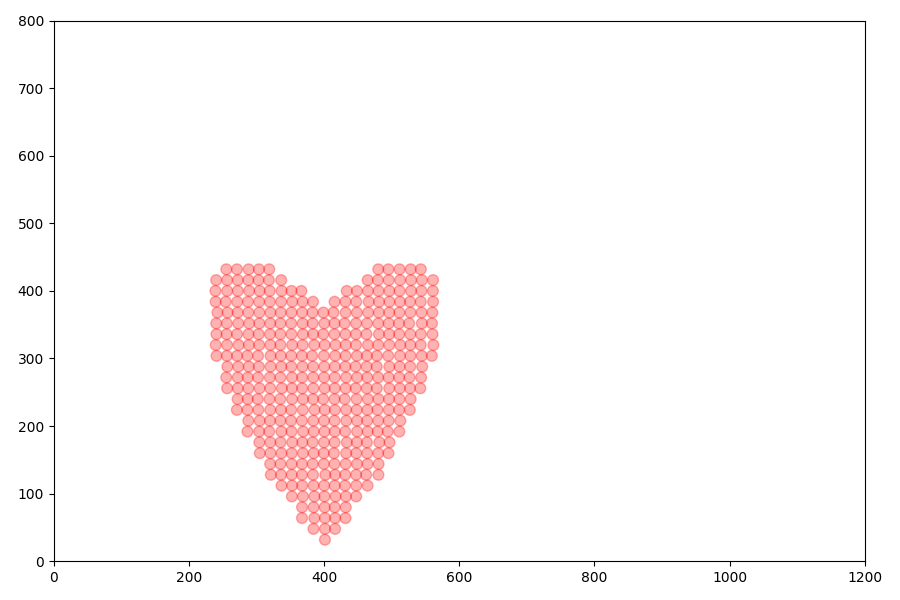
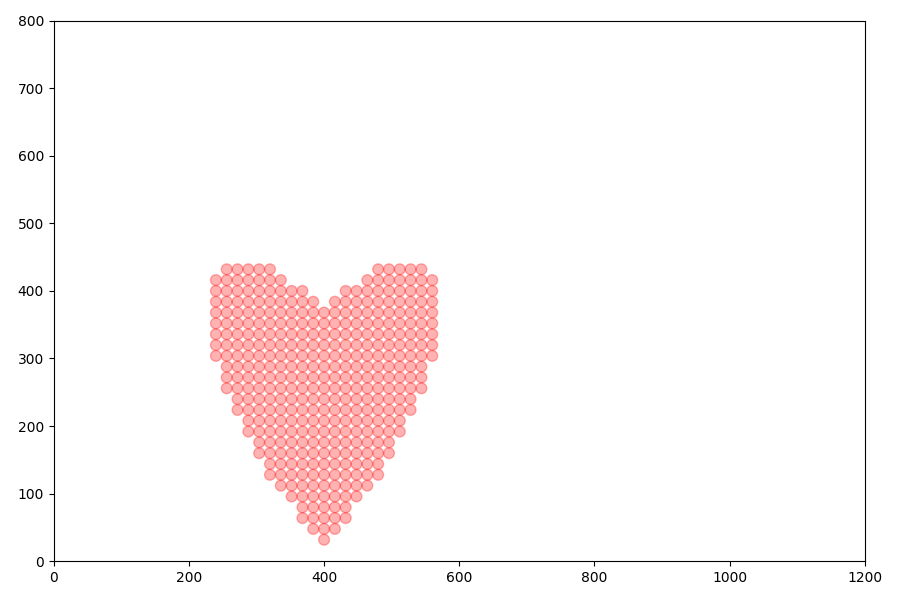
cerrect the error of computation

diff --git a/SphWpf2/Particle.cs b/SphWpf2/Particle.cs
@@ -11,10 +11,10 @@ using System.Windows.Media.Converters;
 
 namespace SphWpf2 {
   class Particle {
-    const double G = -9.8;
+    const double G = 12000d * -9.8;
     const double REST_DENS = 1000d;
     const double GAS_CONST = 2000;
-    public const double H = 16;
+    const double H = 16;
     const double HSQ = H * H;
     const double MASS = 65;
     const double VISC = 250;
@@ -24,12 +24,11 @@ namespace SphWpf2 {
     readonly static double SPIKY_GRAD = -45d / (Math.PI * Math.Pow(H, 6));
     readonly static double VISC_LAP = 45d / (Math.PI * Math.Pow(H, 6));
 
-    const double EPS = H;
     const double BOUND_DAMPING = -0.5;
     public const double VIEW_HEIGHT = 800;
     public const double VIEW_WIDTH = 1200;
 
-    static int count = 0;
+    public static int count = 0;
 
     int _id;
     public double _posX, _posY;
@@ -56,8 +55,8 @@ namespace SphWpf2 {
         if (r2 < HSQ) {
           _rho += MASS * POLY6 * Math.Pow(HSQ - r2, 3);
         }
-        _pressure = GAS_CONST * (_rho - REST_DENS);
       }
+      _pressure = GAS_CONST * (_rho - REST_DENS);
     }
 
 
@@ -79,11 +78,12 @@ namespace SphWpf2 {
 
           double temp = 1d / r * MASS * (_pressure + it._pressure) / (2d * it._rho) * SPIKY_GRAD * Math.Pow(H - r, 2);
           fPressX += -diffX * temp;
-          fPressX += -diffY * temp;
+          fPressY += -diffY * temp;
+
 
           temp = VISC * MASS * 1d / it._rho * VISC_LAP * (H - r);
-          fViscX += diffX * temp;
-          fviscY += diffY * temp;
+          fViscX += (it._vX - _vX) * temp;
+          fviscY += (it._vY - _vY) * temp;
         }
       }
 
@@ -92,36 +92,27 @@ namespace SphWpf2 {
     }
 
 
-    public void integrate(in List<Particle> neighborList) {
-      foreach (var it in neighborList) {
-        _vX += DT * _fX / _rho;
-        _vY += DT * _fY / _rho;
-        _posX += DT * _vX;
-        _posY += DT * _vY;
+    public void integrate() {
+      _vX += DT * _fX / _rho;
+      _vY += DT * _fY / _rho;
+      _posX += DT * _vX;
+      _posY += DT * _vY;
 
-        if (_posX - H < 0.0) {
-          _vX *= BOUND_DAMPING;
-          _posX = H;
-        } else if (_posX + H > VIEW_WIDTH) {
-          _vX *= BOUND_DAMPING;
-          _posX = VIEW_WIDTH - H;
-        } else if (_posY - H < 0.0) {
-          _vY *= BOUND_DAMPING;
-          _vY += H;
-          _posY = H;
-        } else if (_posY + H > VIEW_HEIGHT) {
-          _vY *= BOUND_DAMPING;
-          _vY += H;
-          _posY = VIEW_HEIGHT - H;
-        }
+      if (_posX - H < 0.0) {
+        _vX *= BOUND_DAMPING;
+        _posX = H;
+      } else if (_posX + H > VIEW_WIDTH) {
+        _vX *= BOUND_DAMPING;
+        _posX = VIEW_WIDTH - H;
+      } else if (_posY - H < 0.0) {
+        _vY *= BOUND_DAMPING;
+        _vY += H;
+        _posY = H;
+      } else if (_posY + H > VIEW_HEIGHT) {
+        _vY *= BOUND_DAMPING;
+        _vY += H;
+        _posY = VIEW_HEIGHT - H;
       }
-    }
-
-
-    public void update(in List<Particle> neighborList) {
-      computeDensityPressure(neighborList);
-      computeForces(neighborList);
-      integrate(neighborList);
     }
   }
 }

diff --git a/SphDemo/test.py b/SphDemo/test.py
@@ -1,3 +1,4 @@
+from turtle import title
 import numpy as np  
 import matplotlib.pyplot as plt  
   
@@ -28,15 +29,7 @@ class Particles:
         self.f = np.zeros_like(x)  
         self.rho = np.zeros(len(x))  
         self.p = np.zeros(len(x))  
-  
-    def draw_particles(self):  
-        particles = self  
-        for i, (x, y) in enumerate(particles.x):  
-            circ = plt.Circle((x, y), H / 2, color='r', alpha=0.3)  
-            ax.add_artist(circ)  
-            ax.set_aspect("equal")  
-            ax.set_xlim([0, 1200])  
-            ax.set_ylim([0, 800])  
+
   
     @classmethod  
     def initSPH(cls):  
@@ -46,7 +39,8 @@ class Particles:
             x = EPS  
             while x <= VIEW_WIDTH:  
                 if 2 * np.abs(x - 400) ** 2 - 2 * np.abs(x - 400) * (y - 200) + (y - 200) ** 2 <= 30000:  
-                    jitter = np.random.randn()  
+                    #jitter = np.random.randn()
+                    jitter = 0
                     positions.append([x + jitter, y])  
                 x += H  
             y += H  
@@ -100,19 +94,42 @@ class Particles:
                 particles.v[i, 1] *= BOUND_DAMPING  
                 particles.v[i, 1] += EPS  
                 particles.x[i, 1] = VIEW_HEIGHT - EPS  
-  
-    def update(self):  
-        self.computeDensityPressure()  
-        self.computeForces()  
-        self.integrate()  
-  
-  
-particles = Particles.initSPH()  
-for i in range(400):  
-    fig, ax = plt.subplots(1, 1, figsize=(9, 6))  
-    fig.set_tight_layout(True)  
-    particles.update()  
-    particles.draw_particles()  
-    plt.savefig(f'c_damped_{i}.png')
-    plt.show()  
-    plt.close()
+
+ 
+
+
+xx = []
+yy = []
+particles = Particles.initSPH()
+for i, (x, y) in enumerate(particles.x):  
+  xx.append(x)
+  yy.append(y)
+
+plt.ion()
+fig, ax = plt.subplots(1, 1, figsize=(9, 6))  
+fig.set_tight_layout(True)
+
+for i in range(230):  
+    ax.clear()
+    plt.title("step: " + str(i))
+    ax.set_aspect("equal")
+    ax.set_xlim([0, 1200])
+    ax.set_ylim([0, 800])
+
+    particles.computeDensityPressure()
+    particles.computeForces()
+    particles.integrate() 
+    
+    for i, (x, y) in enumerate(particles.x):  
+      xx[i] = x
+      yy[i] = y
+
+    ax.scatter(xx, yy)
+    #fig.canvas.draw()
+    fig.canvas.flush_events()
+    #plt.savefig(f'c_damped_{i}.png')
+    #print("saved the picture ", i);
+
+input("Please press the Enter key to proceed")
+#plt.ioff()
+#plt.show()

diff --git a/SphWpf2/MainWindow.xaml.cs b/SphWpf2/MainWindow.xaml.cs
@@ -42,6 +42,9 @@ namespace SphWpf {
     string bufferText;
 
 
+    static Random rand = new Random();
+
+
     public MainWindow() {
       InitializeComponent();
       backgroundWorker = new BackgroundWorker();
@@ -60,23 +63,39 @@ namespace SphWpf {
     }
 
 
+    static double NormalDistribution() {
+      double u1, u2, v1 = 0, v2 = 0, s = 0;
+      while (s > 1 || s == 0) {
+        u1 = rand.NextDouble();
+        u2 = rand.NextDouble();
+        v1 = 2 * u1 - 1;
+        v2 = 2 * u2 - 1;
+        s = v1 * v1 + v2 * v2;
+      }
+      return Math.Sqrt(-2 * Math.Log(s) / s) * v1;
+    }
+
+
     void initParticals() {
       //put
+      const double span = 16;
+      Particle.count = 0;
       particleList.Clear();
-      double y = Particle.H;
-      while (y < Particle.VIEW_HEIGHT - Particle.H * 2) {
-        double x = Particle.H;
+      double y = span;
+      while (y < Particle.VIEW_HEIGHT - span * 2) {
+        double x = span;
         while (x <= Particle.VIEW_WIDTH) {
           if (2 * Math.Abs(x - 400) * Math.Abs(x - 400) - 2 * Math.Abs(x - 400) * (y - 200) + (y - 200) * (y - 200) <= 30000) {
-            particleList.Add(new Particle(x, y));
+            particleList.Add(new Particle(x + NormalDistribution(), y));
+            //particleList.Add(new Particle(x, y));
           }
-          x += Particle.H;
+          x += span;
         }
-        y += Particle.H;
+        y += span;
       }  
 
             
-      step = 1;
+      step = 0;
 
       map.Children.Clear();
       //map.Background = Brushes.LightYellow;
@@ -135,7 +154,7 @@ namespace SphWpf {
           it.computeForces(particleList);
         }
         foreach (var it in particleList) {
-          it.integrate(particleList);
+          it.integrate();
         }
 
         int time = Environment.TickCount - lastDrawTime;
